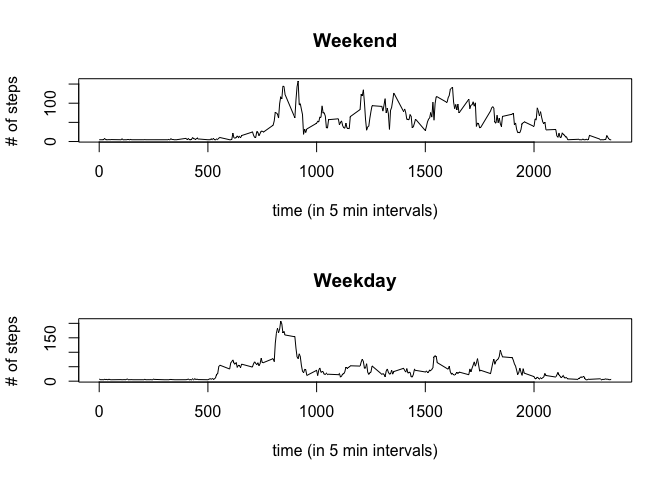
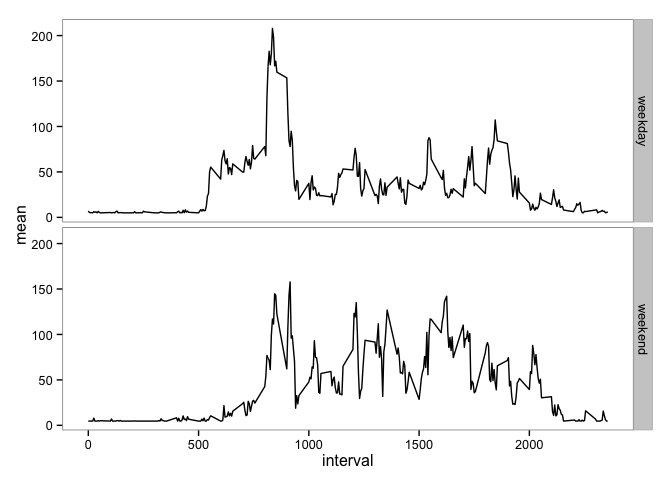
upload for assessment

diff --git a/PA1_template.html b/PA1_template.html
@@ -61,6 +61,7 @@ if (window.hljs && document.readyState && document.readyState === "complete") {
 </div>
 
 
+<p>please note: a majority of the notes describing each section is either summarized, or copied verbatum from the coursera reproducible research homework assignment.</p>
 <div id="load-and-preprocess-data" class="section level3">
 <h3>Load and preprocess data</h3>
 <pre class="r"><code>#import libraries
@@ -83,6 +84,8 @@ library(dplyr)</code></pre>
 ## 
 ##     intersect, setdiff, setequal, union</code></pre>
 <pre class="r"><code>library(chron)
+library(lattice)
+library(ggplot2)
 
 #load
 rawData &lt;- read.csv(&#39;activity.csv&#39;)
@@ -210,17 +213,12 @@ meanStepsPerInterval[which(meanStepsPerInterval$mean == max(meanStepsPerInterval
 
 2. Using the strategy described below to fill in missing data, create a new dataset that is equal to the original dataset but with the missing data filled in.
 
----------------------------------------------------------------------------------------------------
-* MONO FROM HERE I HAVE TO PROBABLY DO A BETTER JOB. THEN UPLOAD. EVERYTHING UP TO HERE LOOKS GOOD.
----------------------------------------------------------------------------------------------------</code></pre>
-<p>remaining to do: 1) a better version of this step, not just an average of the whole thing; get more granular 2) Then; make all markdown parts (particularly from here to the end, nicer &amp; take out analysis of the impact on imputting from the code, and put it here)</p>
-<p>#Impact is we have some days filled in where before they were blank; both for mean and median, adding the artificial values caused the values to go up and down. clearly my reasoning wasn’t amazing, but to demonstrate the principle, this should suffice.</p>
-<ol start="3" style="list-style-type: decimal">
-<li>Then, make the final graph look more like it does on github</li>
-<li>upload everything to GitHub.</li>
-</ol>
-<p>MAYBE My strategy will be to try a few different approaches, and see how each affects the outcome.</p>
-<pre><code>4. Make a histogram of the total number of steps taken each day and Calculate and report the mean and median total number of steps taken per day. Do these values differ from the estimates from the first part of the assignment? What is the impact of imputing missing data on the estimates of the total daily number of steps?</code></pre>
+Strategy: 
+I chose to simply add the average number of steps accross all times and days to each NA value.
+Although this is probably the worst strategy, it demonstrates the concept of imputting data.
+
+The impact of adding the artificial values is that we some days that were previously left out due to having NA&#39;s are now included; and, for both mean and median, the values have flucutated higher and lower.</code></pre>
+<p>In the histogram, and the new data presented you can see the effect of imputing the artificial data.</p>
 <pre class="r"><code>#1 find number of rows containing NAs in raw data
 sum(is.na(rawData$steps)) </code></pre>
 <pre><code>## [1] 2304</code></pre>
@@ -230,15 +228,14 @@ sum(is.na(rawData$steps)) </code></pre>
 #first copy rawData to new data frame to manipulate
 modData &lt;- rawData
 
-############################################################
+#imputting data steps:
 #get vector of NA&#39;s
 #where value = NA, enter &quot;mean&quot; from meanStepsPerInterval at that interval 
-#really poor reasoning, but essentially fill in with the average number of steps
+#fill in with the average number of steps
 modData$steps[which(is.na(rawData$steps))] &lt;- mean(modData$steps, na.rm = TRUE)
 
 stepsPerDayMod &lt;-ddply(modData, .(date), summarize, sum=sum(steps))
 
-############################################################
 par(mfrow=c(1,2))
 
 #new graph with artificial data added
@@ -326,12 +323,10 @@ meanMedianDailyStepsMod</code></pre>
 ## 60 2012-11-29 24.4687500 568.0000
 ## 61 2012-11-30 37.3825996  37.3826</code></pre>
 <pre class="r"><code>#unmodified:
-#meanMedianDailySteps
-#Impact is we have some days filled in where before they were blank; both for mean and median, adding the artificial values caused the values to go up and down. clearly my reasoning wasn&#39;t amazing, but to demonstrate the principle, this should suffice.</code></pre>
+#meanMedianDailySteps</code></pre>
 </div>
 <div id="are-there-differences-in-activity-patterns-between-weekdays-and-weekends" class="section level3">
 <h3>Are there differences in activity patterns between weekdays and weekends?</h3>
-<p>For this part the weekdays() function may be of some help here. Use the dataset with the filled-in missing values for this part.</p>
 <pre><code>Create a new factor variable in the dataset with two levels - &quot;weekday&quot; and &quot;weekend&quot; indicating whether a given date is a weekday or weekend day.
 
 Make a panel plot containing a time series plot (i.e. type = &quot;l&quot;) of the 5-minute interval (x-axis) and the average number of steps taken, averaged across all weekday days or weekend days (y-axis). See the README file in the GitHub repository to see an example of what this plot should look like using simulated data.</code></pre>
@@ -345,27 +340,30 @@ modData2$weekend &lt;- FALSE
 modData2$weekend[which(is.weekend(modData$date))] &lt;- TRUE
 
 #create 2 new dataframes
-
 weekEnd &lt;- modData2[modData2$weekend == TRUE, ]
 
 weekDay &lt;- modData2[modData2$weekend == FALSE, ]
 
+#find mean of each day/weekday or weekend
 weekEndMeanSteps &lt;- ddply(weekEnd, .(interval), summarize, mean=mean(steps))
-
 weekDayMeanSteps &lt;- ddply(weekDay, .(interval), summarize, mean=mean(steps))
 
-par(mfrow=c(2,1))
+#add factor variable
+weekEndMeanSteps$day &lt;- &quot;weekend&quot;
+weekDayMeanSteps$day &lt;- &quot;weekday&quot;
 
-#make time series plot 
+#merge to 1 new dataframe
+mergedDF &lt;- rbind(weekEndMeanSteps, weekDayMeanSteps)
 
-plot(weekEndMeanSteps$interval, weekEndMeanSteps$mean, type=&quot;l&quot;, main=&quot;Weekend&quot;, ylab=&quot;# of steps&quot;, xlab=&quot;time (in 5 min intervals)&quot;)
+#plot graph
+p &lt;- ggplot(mergedDF,aes(x=interval, y=mean)) 
+p &lt;- p + geom_line() + facet_grid(day ~ .) + theme_bw()
+p &lt;- p + theme(panel.grid.major = element_blank(), panel.grid.minor = element_blank())
 
-plot(weekDayMeanSteps$interval, weekDayMeanSteps$mean, type=&quot;l&quot;, main=&quot;Weekday&quot;, ylab=&quot;# of steps&quot;, xlab=&quot;time (in 5 min intervals)&quot;)</code></pre>
+p</code></pre>
 <div class="figure">
 <img src="PA1_template_files/figure-html/unnamed-chunk-5-1.png" />
 </div>
-<pre class="r"><code>par(mfrow=c(1,1))</code></pre>
-<p>useful: str() summary() class() names() length() head() tail() dim()</p>
 </div>
 
 

diff --git a/PA1_template.md b/PA1_template.md
@@ -2,6 +2,8 @@
 Monobot  
 September 17, 2015  
 
+please note: a majority of the notes describing each section is either summarized, or copied verbatum from the coursera reproducible research homework assignment. 
+
 ###Load and preprocess data
 
 
@@ -35,6 +37,8 @@ library(dplyr)
 
 ```r
 library(chron)
+library(lattice)
+library(ggplot2)
 
 #load
 rawData <- read.csv('activity.csv')
@@ -191,25 +195,13 @@ meanStepsPerInterval[which(meanStepsPerInterval$mean == max(meanStepsPerInterval
 
     2. Using the strategy described below to fill in missing data, create a new dataset that is equal to the original dataset but with the missing data filled in.
     
-    ---------------------------------------------------------------------------------------------------
-    * MONO FROM HERE I HAVE TO PROBABLY DO A BETTER JOB. THEN UPLOAD. EVERYTHING UP TO HERE LOOKS GOOD.
-    ---------------------------------------------------------------------------------------------------
-   
-   remaining to do: 
-   1) a better version of this step, not just an average of the whole thing; get more granular
-   2) Then; make all markdown parts (particularly from here to the end, nicer & take out analysis of the impact on imputting from the code, and put it here)
-   
-   #Impact is we have some days filled in where before they were blank; both for mean and median, adding the artificial values caused the values to go up and down. clearly my reasoning wasn't amazing, but to demonstrate the principle, this should suffice.
-   
-   3) Then, make the final graph look more like it does on github
-   4) upload everything to GitHub.
-   
-   MAYBE
-    My strategy will be to try a few different approaches, and see how each affects the outcome. 
+    Strategy: 
+    I chose to simply add the average number of steps accross all times and days to each NA value.
+    Although this is probably the worst strategy, it demonstrates the concept of imputting data.
     
+    The impact of adding the artificial values is that we some days that were previously left out due to having NA's are now included; and, for both mean and median, the values have flucutated higher and lower.
 
-    4. Make a histogram of the total number of steps taken each day and Calculate and report the mean and median total number of steps taken per day. Do these values differ from the estimates from the first part of the assignment? What is the impact of imputing missing data on the estimates of the total daily number of steps?
-
+   In the histogram, and the new data presented you can see the effect of imputing the artificial data.
 
 
 ```r
@@ -228,15 +220,14 @@ sum(is.na(rawData$steps))
 #first copy rawData to new data frame to manipulate
 modData <- rawData
 
-############################################################
+#imputting data steps:
 #get vector of NA's
 #where value = NA, enter "mean" from meanStepsPerInterval at that interval 
-#really poor reasoning, but essentially fill in with the average number of steps
+#fill in with the average number of steps
 modData$steps[which(is.na(rawData$steps))] <- mean(modData$steps, na.rm = TRUE)
 
 stepsPerDayMod <-ddply(modData, .(date), summarize, sum=sum(steps))
 
-############################################################
 par(mfrow=c(1,2))
 
 #new graph with artificial data added
@@ -333,13 +324,10 @@ meanMedianDailyStepsMod
 ```r
 #unmodified:
 #meanMedianDailySteps
-#Impact is we have some days filled in where before they were blank; both for mean and median, adding the artificial values caused the values to go up and down. clearly my reasoning wasn't amazing, but to demonstrate the principle, this should suffice.
 ```
 
 
 ###Are there differences in activity patterns between weekdays and weekends?
-
-For this part the weekdays() function may be of some help here. Use the dataset with the filled-in missing values for this part.
 
     Create a new factor variable in the dataset with two levels - "weekday" and "weekend" indicating whether a given date is a weekday or weekend day.
 
@@ -357,38 +345,27 @@ modData2$weekend <- FALSE
 modData2$weekend[which(is.weekend(modData$date))] <- TRUE
 
 #create 2 new dataframes
-
 weekEnd <- modData2[modData2$weekend == TRUE, ]
 
 weekDay <- modData2[modData2$weekend == FALSE, ]
 
+#find mean of each day/weekday or weekend
 weekEndMeanSteps <- ddply(weekEnd, .(interval), summarize, mean=mean(steps))
-
 weekDayMeanSteps <- ddply(weekDay, .(interval), summarize, mean=mean(steps))
 
-par(mfrow=c(2,1))
+#add factor variable
+weekEndMeanSteps$day <- "weekend"
+weekDayMeanSteps$day <- "weekday"
 
-#make time series plot 
+#merge to 1 new dataframe
+mergedDF <- rbind(weekEndMeanSteps, weekDayMeanSteps)
 
-plot(weekEndMeanSteps$interval, weekEndMeanSteps$mean, type="l", main="Weekend", ylab="# of steps", xlab="time (in 5 min intervals)")
+#plot graph
+p <- ggplot(mergedDF,aes(x=interval, y=mean)) 
+p <- p + geom_line() + facet_grid(day ~ .) + theme_bw()
+p <- p + theme(panel.grid.major = element_blank(), panel.grid.minor = element_blank())
 
-plot(weekDayMeanSteps$interval, weekDayMeanSteps$mean, type="l", main="Weekday", ylab="# of steps", xlab="time (in 5 min intervals)")
+p
 ```
 
 ![](PA1_template_files/figure-html/unnamed-chunk-5-1.png) 
-
-```r
-par(mfrow=c(1,1))
-```
-
-
-
-useful:
-str()
-summary()
-class()
-names()
-length()
-head()
-tail()
-dim()
